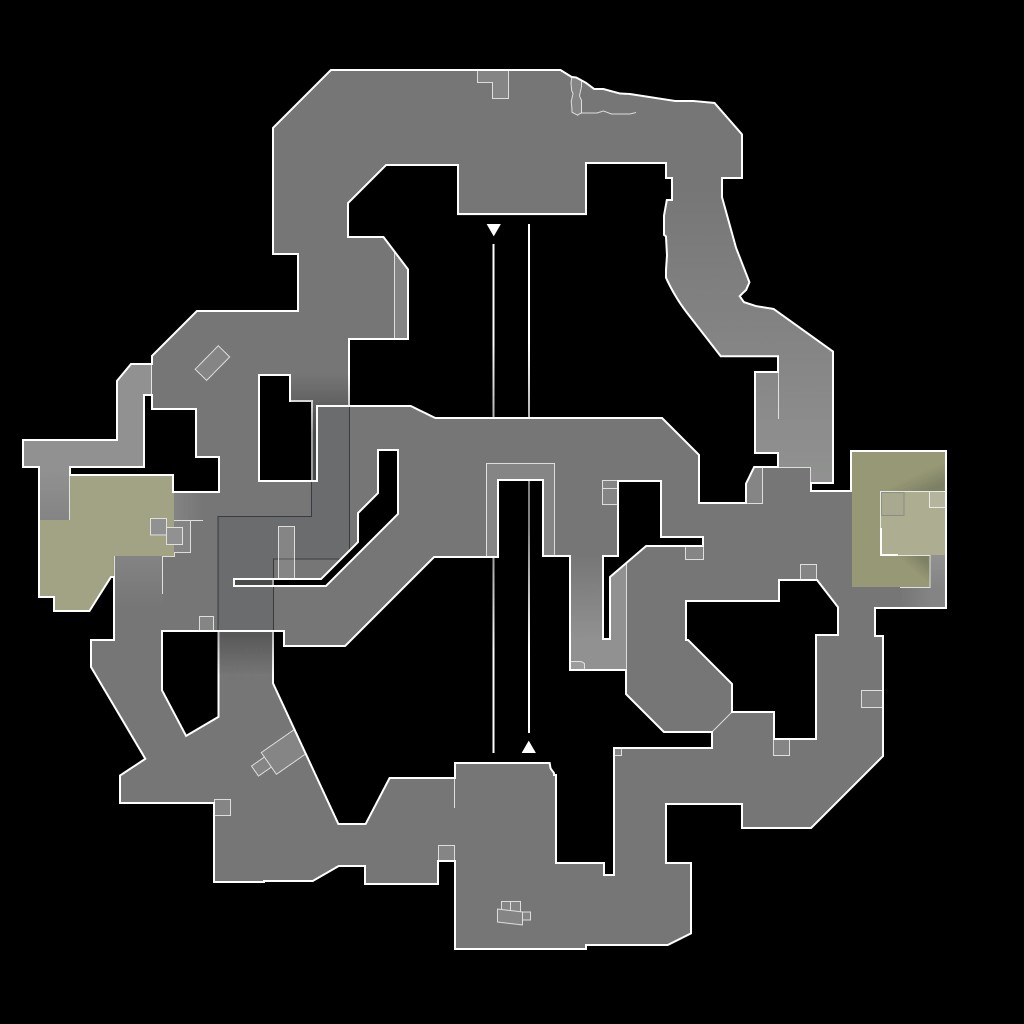
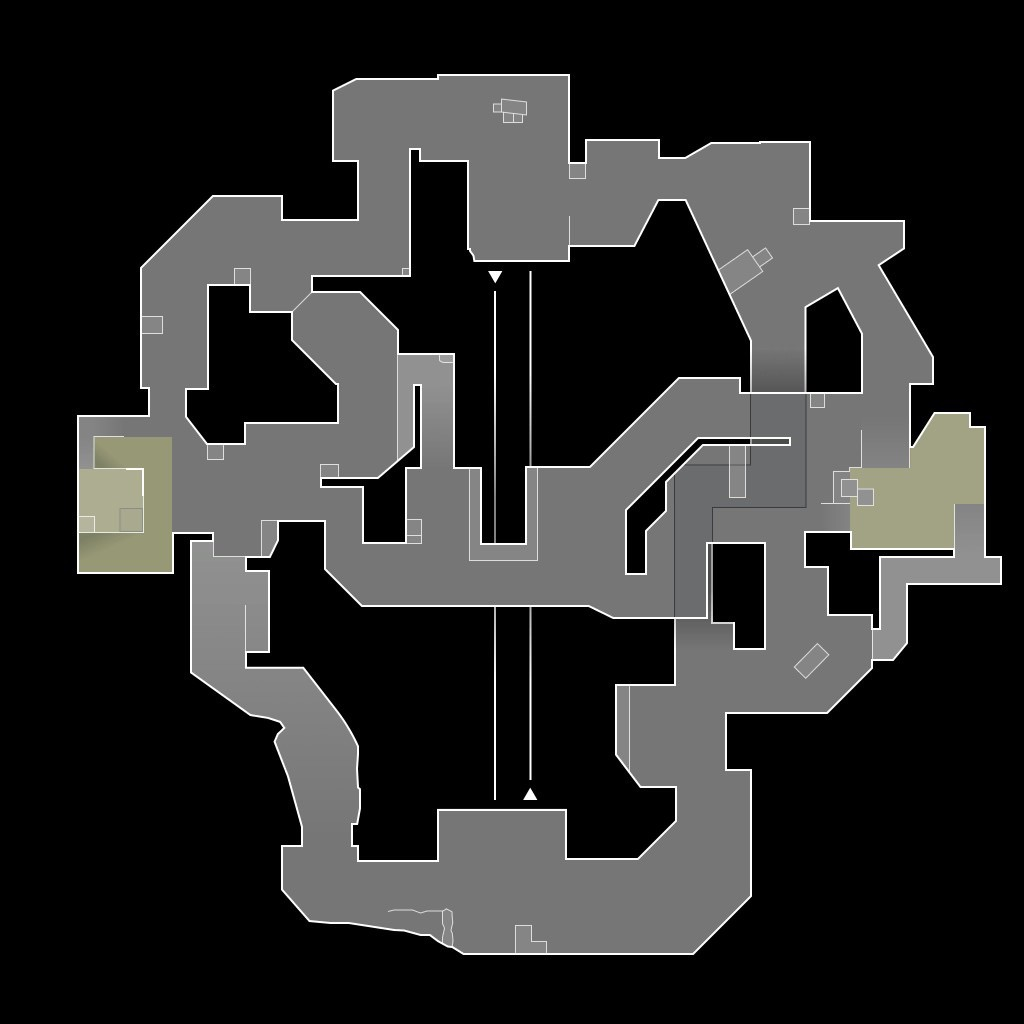
Fix Tauri reopen black screen and rotate remaining maps
Disable service worker in Tauri desktop runtime to prevent black screen on second launch, and rotate the remaining simple map images as requested. Bump SW cache version to refresh updated assets.

diff --git a/src/main.jsx b/src/main.jsx
@@ -11,6 +11,18 @@ createRoot(document.getElementById('root')).render(
 
 if ('serviceWorker' in navigator) {
   window.addEventListener('load', () => {
+    const isTauri =
+      typeof window !== 'undefined' &&
+      ('__TAURI_INTERNALS__' in window || navigator.userAgent.includes('Tauri'))
+
+    if (isTauri) {
+      navigator.serviceWorker
+        .getRegistrations()
+        .then((regs) => Promise.all(regs.map((r) => r.unregister())))
+        .catch(() => {})
+      return
+    }
+
     navigator.serviceWorker.register('/sw.js').catch(() => {})
   })
 }

diff --git a/public/sw.js b/public/sw.js
@@ -1,4 +1,4 @@
-const CACHE_NAME = 'calloutlab-v2'
+const CACHE_NAME = 'calloutlab-v5'
 const PRECACHE = [
   '/',
   '/index.html',
